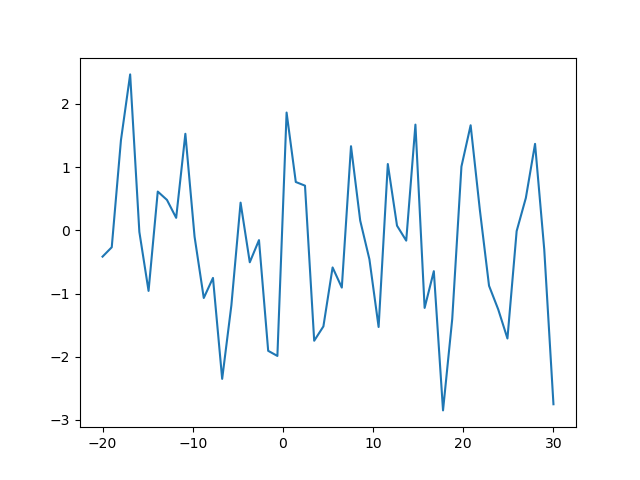
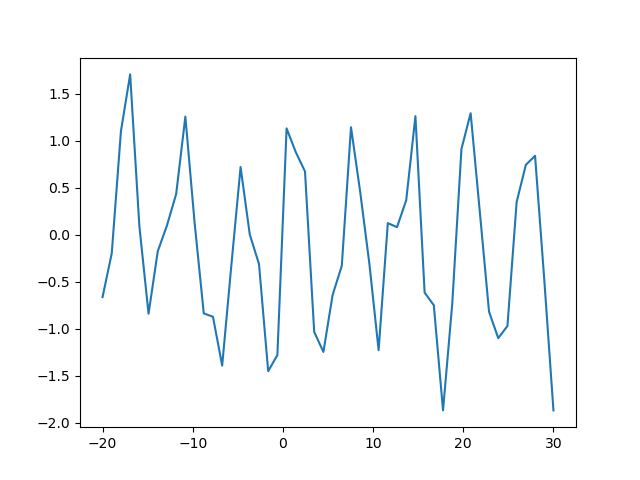
Added .png gitignore

diff --git a/Extrapolation/Extrapolation/Extrapolation.cpp b/Extrapolation/Extrapolation/Extrapolation.cpp
@@ -6,6 +6,7 @@
 #include "math.h"
 #include "mnk_reg.h"
 #include "mnk_gradient.h"
+#include "exp_smoothing.h"
 
 
 
@@ -208,34 +209,34 @@ int main()
 
         // EXP_SMOOTHING
 
-        auto start3 = std::chrono::high_resolution_clock::now();
-        //prediction = LSE.EXP_SMOOTHING(x_train, y_train, x_test);
-        auto stop3 = std::chrono::high_resolution_clock::now();
+        //auto start3 = std::chrono::high_resolution_clock::now();
+        ////prediction = exponential_smoothing(x_train, y_train, x_test, 0.5, 1);
+        //auto stop3 = std::chrono::high_resolution_clock::now();
 
-        auto duration3 = std::chrono::duration_cast<std::chrono::microseconds>(stop3- start3);
+        //auto duration3 = std::chrono::duration_cast<std::chrono::microseconds>(stop3- start3);
 
-        std::cout << "LSE_GRAD working: " << duration2.count() << " microseconds" << std::endl;
-        std::cout << "mean absolute error in file " << name << ": " << mae(y_test, prediction) << std::endl;
-        std::cout << "r2 score in file " << name << ": " << r2_score(y_test, prediction) << std::endl;
-        std::cout << "SMAPE in file " << name << ": " << SMAPE(y_test, prediction) << "%" << std::endl << std::endl;
+        //std::cout << "LSE_GRAD working: " << duration2.count() << " microseconds" << std::endl;
+        //std::cout << "mean absolute error in file " << name << ": " << mae(y_test, prediction) << std::endl;
+        //std::cout << "r2 score in file " << name << ": " << r2_score(y_test, prediction) << std::endl;
+        //std::cout << "SMAPE in file " << name << ": " << SMAPE(y_test, prediction) << "%" << std::endl << std::endl;
 
-        //write_file("data/" + name + "_test", x_test, y_test, prediction);
+        ////write_file("data/" + name + "_test", x_test, y_test, prediction);
 
 
-        // LINEAR EXT
+        //// LINEAR EXT
 
-        auto start4 = std::chrono::high_resolution_clock::now();
-        //prediction = LSE.LINEAR_EXTRAPOLATION(x_train, y_train, x_test);
-        auto stop4 = std::chrono::high_resolution_clock::now();
+        //auto start4 = std::chrono::high_resolution_clock::now();
+        ////prediction = LSE.LINEAR_EXTRAPOLATION(x_train, y_train, x_test);
+        //auto stop4 = std::chrono::high_resolution_clock::now();
 
-        auto duration4 = std::chrono::duration_cast<std::chrono::microseconds>(stop4 - start4);
+        //auto duration4 = std::chrono::duration_cast<std::chrono::microseconds>(stop4 - start4);
 
-        std::cout << "LSE_GRAD working: " << duration2.count() << " microseconds" << std::endl;
-        std::cout << "mean absolute error in file " << name << ": " << mae(y_test, prediction) << std::endl;
-        std::cout << "r2 score in file " << name << ": " << r2_score(y_test, prediction) << std::endl;
-        std::cout << "SMAPE in file " << name << ": " << SMAPE(y_test, prediction) << "%" << std::endl << std::endl;
+        //std::cout << "LSE_GRAD working: " << duration2.count() << " microseconds" << std::endl;
+        //std::cout << "mean absolute error in file " << name << ": " << mae(y_test, prediction) << std::endl;
+        //std::cout << "r2 score in file " << name << ": " << r2_score(y_test, prediction) << std::endl;
+        //std::cout << "SMAPE in file " << name << ": " << SMAPE(y_test, prediction) << "%" << std::endl << std::endl;
 
-        //write_file("data/" + name + "_test", x_test, y_test, prediction);
+        ////write_file("data/" + name + "_test", x_test, y_test, prediction);
     }
 
     return 0;

diff --git a/Extrapolation/Extrapolation/data/data_generator.py b/Extrapolation/Extrapolation/data/data_generator.py
@@ -4,7 +4,7 @@ np.random.seed(42)
 
 x = np.linspace(-20, 30, 50)
 
-y0 = np.sin(x) + np.random.normal(0, 1, 50)
+y0 = np.sin(x) + np.random.normal(0, 0.5, 50)
 y1 = (x-15)*(x+4)*(x-3)*(x+2)*(x-1) / 1000 + np.random.normal(0, 60, 50)
 y2 = (x-5)*(x+5)*(x-1)/30 + np.random.normal(0, 150, 50)
 y3 = 0.01*x + np.random.normal(0, 6, 50)
